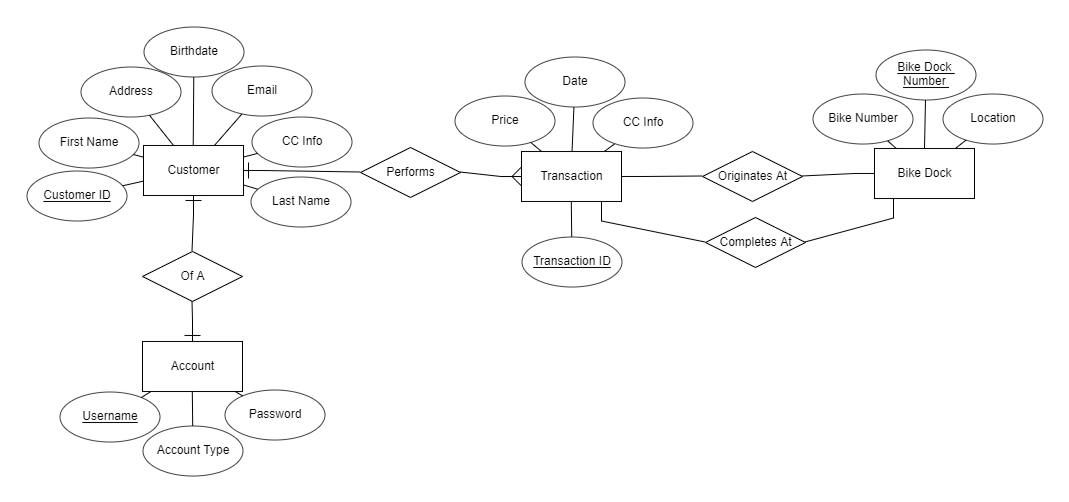
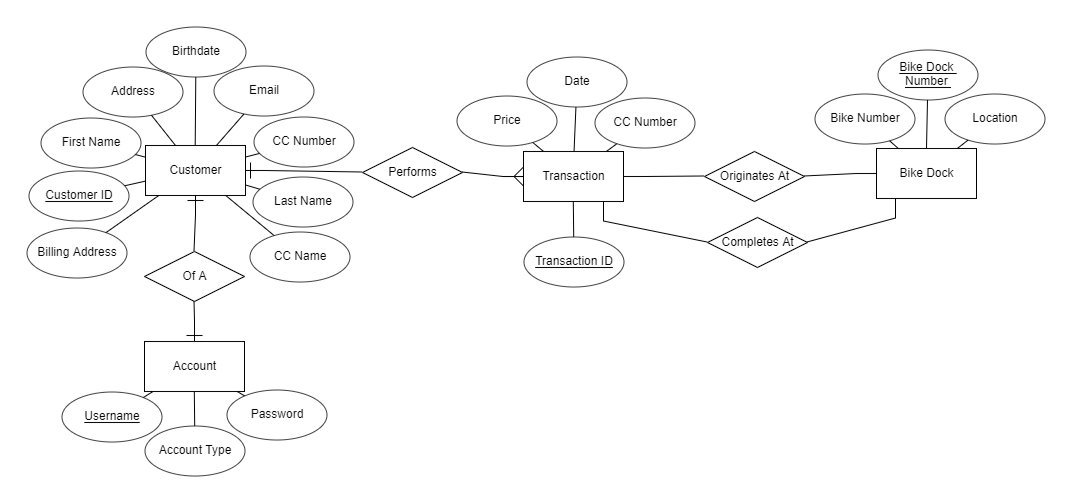
modified how credit card info is stored

diff --git a/TABLE_CREATION.md b/TABLE_CREATION.md
@@ -12,14 +12,16 @@ CREATE TABLE Customer(
     address VARCHAR(100),
     birthdate DATE NOT NULL,
     email VARCHAR(100),
-    cc_info VARCHAR(100) NOT NULL,              //possibly change on how we recognize CC info
+    cc_number VARCHAR(16) NOT NULL,
+    cc_name VARCHAR(100) NOT NULL,
+    billing_address VARCHAR(100) NOT NULL,              
     PRIMARY KEY (customer_id),
 );
 
 CREATE TABLE Transaction(
     transaction_id INT AUTO_INCREMENT,
     price INT NOT NULL,
-    cc_info VARCHAR(100) NOT NULL,              //possibly change on how we recognize CC info
+    cc_number VARCHAR(16) NOT NULL,              
     transaction_date DATE NOT NULL,
     customer_id INT NOT NULL,
     origin_dock INT NOT NULL,
